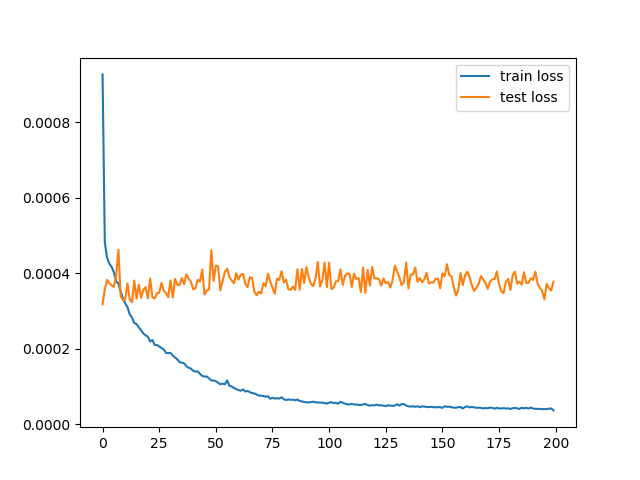
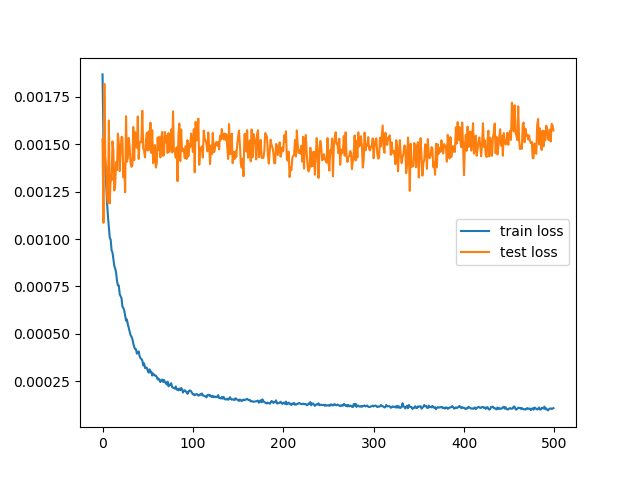
added env file

diff --git a/main_bc.py b/main_bc.py
@@ -11,7 +11,7 @@ from networks import LinearPolicy
 """
 Configuration parameters
 """
-train_bs           = 64
+train_bs           = 16
 num_workers        = 8
 roots              = [ "/home/gparmar/Desktop/github_gaparmar/CarSimulator/output/expert_0",
                         "/home/gparmar/Desktop/github_gaparmar/CarSimulator/output/expert_1",
@@ -19,8 +19,8 @@ roots              = [ "/home/gparmar/Desktop/github_gaparmar/CarSimulator/outpu
                         "/home/gparmar/Desktop/github_gaparmar/CarSimulator/output/expert_3",
                         "/home/gparmar/Desktop/github_gaparmar/CarSimulator/output/expert_4",
                      ]
-train_epochs       = 200
-train_lr           = 0.0005
+train_epochs       = 500
+train_lr           = 0.0002
 
 
 
@@ -46,16 +46,19 @@ for epoch in range(train_epochs):
     policy = policy.train()
     train_loss = 0.0
     for idx, batch in enumerate(dl_train, 1):
-        # pdb.set_trace()
+        # Make all the gradients zero
         opt.zero_grad()
         img = batch["image"].cuda()
+        # predict throttle / steer using current weights
         pred_throttle, pred_steer = policy(img)
+        # Computer Mean Squared Difference
         mse_loss = F.mse_loss(pred_throttle.view(-1), batch["throttle"].to(device))
         mse_loss += F.mse_loss(pred_steer.view(-1), batch["steer"].to(device))
+        # Compute the gradients of the MSE w.r.t the model weights
         mse_loss.backward()
+        # upate model weights using the gradient
         opt.step()
         train_loss += mse_loss.item()
-        # pbar.set_description(f"epoch:{epoch:3d}\tit:{idx:4d}\ttrain_loss:{mse_loss.item():.2f}\t\t")
     train_loss = train_loss/len(ds_train)
     L_train.append(train_loss)
 
@@ -73,7 +76,7 @@ for epoch in range(train_epochs):
     L_test.append(test_loss)
 
     print(f"{epoch}:: total train_loss: {train_loss}\ttest_loss: {test_loss}")
-    if epoch%20 == 0:
+    if epoch%50 == 0:
         # save model 
         torch.save(policy.state_dict(), f"model_{epoch}.sd")
 

diff --git a/main_dagger.py b/main_dagger.py
@@ -1,0 +1,21 @@
+import os, sys, time, pdb
+from tqdm import tqdm
+import numpy as np
+import matplotlib.pyplot as plt
+# import torch 
+# from torch.utils.data import DataLoader
+# import torch.nn.functional as F
+# from dataset import CarDataset
+# from networks import LinearPolicy
+import gym
+import gym_donkeycar
+
+sim_path      = "../CarSimulator/sim/DonkeySimLinux/donkey_sim.x86_64"
+env_name      = "donkey-mountain-track-v0"
+host          = "127.0.0.1"
+port          = 9092
+env  = gym.make(env_name, exe_path=sim_path,
+                host=host, port=port)
+
+
+# 1. Collect expert training policy

diff --git a/README.md b/README.md
@@ -1,5 +1,8 @@
 # ImitationLearning
 
+## 0. Setup
+ - 
+
 ## 1. Collect Expert trajectories using simulator here
  - https://github.com/GaParmar/CarSimulator
 
